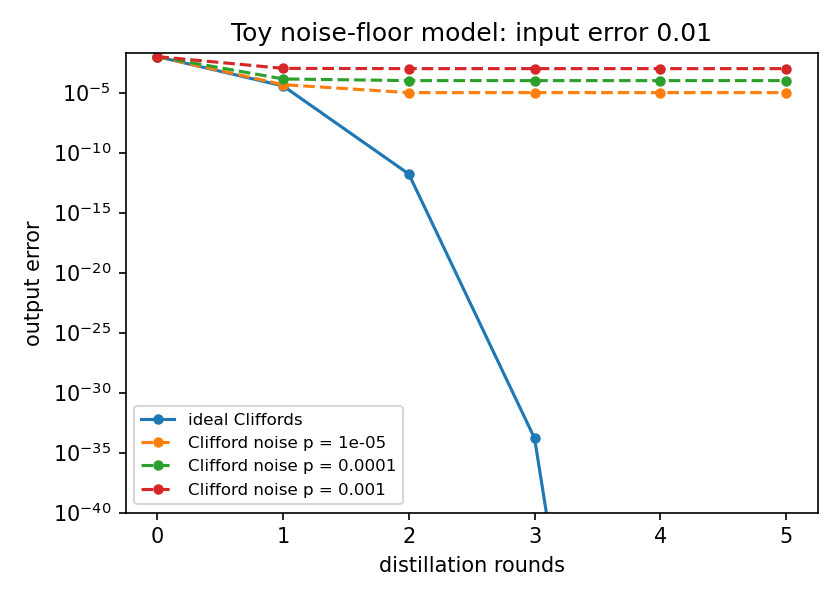
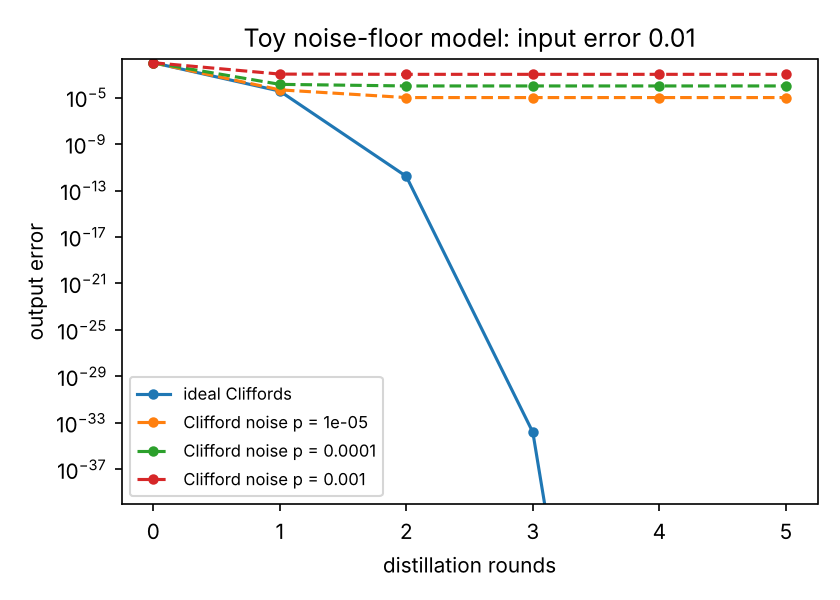
Generalise to CSS-code protocols (8T-to-CCZ, 14-to-2), add limits section

diff --git a/magic15/css.py b/magic15/css.py
@@ -1,0 +1,170 @@
+"""Protocol-agnostic distillation analysis for CSS codes under independent Z noise on the input states.
+
+A protocol is described by two binary matrices over GF(2):
+  Hx : rows = X-type stabiliser generators. A Z-error pattern e is ACCEPTED iff Hx e = 0 (mod 2).
+  K  : rows span every X-type operator that commutes with all Z-type stabilisers (X stabilisers + X logicals).
+       An accepted pattern is HARMLESS iff K e = 0 (it is a Z stabiliser); otherwise it is a logical error on at least one output.
+Two ways to build a protocol:
+  * `from_triorthogonal(G)`: Bravyi-Haah triorthogonal matrix, odd-weight rows = logical X (outputs), even-weight rows = X stabilisers.
+    Then Hx = even rows and K = all rows. Triorthogonality is what makes transversal T act as a logical T gate, so it is checked.
+  * `from_css(Hx, Hz)`: any CSS code with a known transversal gate; K is the null space of Hz.
+
+What this module does NOT do: it takes the correctness of the protocol's circuit (that the code really implements the target gate
+under the stated operation) as given, assumes perfect Cliffords and measurements, and treats the inputs as independent Z errors.
+"""
+import numpy as np
+from itertools import combinations
+
+
+def _rref_gf2(M):
+    M = (np.array(M, dtype=np.uint8) % 2).copy(); r = 0; pivots = []
+    for c in range(M.shape[1]):
+        if r == M.shape[0]: break
+        p = np.nonzero(M[r:, c])[0]
+        if len(p) == 0: continue
+        M[[r, r + p[0]]] = M[[r + p[0], r]]
+        for i in np.nonzero(M[:, c])[0]:
+            if i != r: M[i] ^= M[r]
+        pivots.append(c); r += 1
+    return M[:r], pivots
+
+
+def rank_gf2(M):
+    return len(_rref_gf2(M)[1])
+
+
+def nullspace_gf2(M):
+    """Rows = a basis of {x : M x = 0 mod 2}."""
+    M = np.array(M, dtype=np.uint8) % 2; n = M.shape[1]
+    R, piv = _rref_gf2(M); free = [c for c in range(n) if c not in piv]; out = []
+    for f in free:
+        v = np.zeros(n, np.uint8); v[f] = 1
+        for i, c in enumerate(piv): v[c] = R[i, f]
+        out.append(v)
+    return np.array(out, dtype=np.uint8).reshape(len(out), n)
+
+
+def is_triorthogonal(G):
+    """Every pair of distinct rows overlaps evenly and every triple of distinct rows overlaps evenly (Bravyi-Haah)."""
+    G = np.array(G, dtype=np.uint8) % 2
+    for a, b in combinations(range(len(G)), 2):
+        if int((G[a] & G[b]).sum()) % 2: return False
+    for a, b, c in combinations(range(len(G)), 3):
+        if int((G[a] & G[b] & G[c]).sum()) % 2: return False
+    return True
+
+
+class CSSProtocol:
+    def __init__(self, name, Hx, K):
+        self.name = name
+        self.Hx = np.array(Hx, dtype=np.uint8) % 2
+        self.K = np.array(K, dtype=np.uint8) % 2
+        self.n = self.Hx.shape[1]
+        assert self.K.shape[1] == self.n
+        assert not ((self.Hx @ self.K.T) % 2).any() or True    # Hx rows lie in span(K) by construction; not a separate requirement
+        self._A = self._L = None
+
+    @classmethod
+    def from_triorthogonal(cls, name, G):
+        G = np.array(G, dtype=np.uint8) % 2
+        if not is_triorthogonal(G): raise ValueError("matrix is not triorthogonal: transversal T would not be a logical T gate")
+        w = G.sum(axis=1)
+        return cls(name, G[w % 2 == 0], G)
+
+    @classmethod
+    def from_css(cls, name, Hx, Hz):
+        Hx = np.array(Hx, dtype=np.uint8) % 2; Hz = np.array(Hz, dtype=np.uint8) % 2
+        if ((Hx @ Hz.T) % 2).any(): raise ValueError("Hx and Hz do not commute")
+        return cls(name, Hx, nullspace_gf2(Hz))
+
+    # ---- exact analysis by enumeration over all 2^n error patterns (n up to about 24; chunked)
+    def weight_enumerators(self, chunk=1 << 18):
+        """(A, L): A[w] = number of weight-w patterns accepted, L[w] = number of those that are logical errors."""
+        if self._A is not None: return self._A, self._L
+        n = self.n; A = np.zeros(n + 1, np.int64); L = np.zeros(n + 1, np.int64)
+        bits = np.arange(n, dtype=np.uint64)
+        for start in range(0, 1 << n, chunk):
+            idx = np.arange(start, min(start + chunk, 1 << n), dtype=np.uint64)
+            P = ((idx[:, None] >> bits) & np.uint64(1)).astype(np.uint8)
+            acc = ~((P @ self.Hx.T) % 2).any(axis=1)
+            logical = acc & ((P @ self.K.T) % 2).any(axis=1)
+            w = P.sum(axis=1).astype(int)
+            A += np.bincount(w[acc], minlength=n + 1); L += np.bincount(w[logical], minlength=n + 1)
+        self._A, self._L = A, L
+        return A, L
+
+    def exact(self, eps):
+        """(acceptance probability, probability that an accepted output carries a logical error)."""
+        A, L = self.weight_enumerators(); w = np.arange(self.n + 1)
+        pw = eps ** w * (1 - eps) ** (self.n - w)
+        pa = float((A * pw).sum()); pl = float((L * pw).sum())
+        return pa, pl / pa
+
+    def leading_order(self):
+        """(lowest weight w of an accepted logical error, number of such patterns): output error ~ count * eps^w."""
+        A, L = self.weight_enumerators(); nz = np.nonzero(L)[0]
+        return (int(nz[0]), int(L[nz[0]])) if len(nz) else (None, 0)
+
+    def mc(self, eps, shots, rng):
+        """Monte Carlo twin of `exact`: (accepted, logical errors) out of `shots`."""
+        e = (rng.random((shots, self.n)) < eps).astype(np.uint8)
+        acc = ~((e @ self.Hx.T) % 2).any(axis=1)
+        bad = acc & ((e @ self.K.T) % 2).any(axis=1)
+        return int(acc.sum()), int(bad.sum())
+
+    def exact_heterogeneous(self, eps_vec):
+        """Same as exact() but every input qubit has its own error probability (arbitrary independent noise); n <= about 22."""
+        eps_vec = np.asarray(eps_vec, dtype=float); n = self.n; assert len(eps_vec) == n
+        bits = np.arange(n, dtype=np.uint64); pa = pl = 0.0
+        for start in range(0, 1 << n, 1 << 18):
+            idx = np.arange(start, min(start + (1 << 18), 1 << n), dtype=np.uint64)
+            P = ((idx[:, None] >> bits) & np.uint64(1)).astype(np.uint8)
+            pr = np.prod(np.where(P == 1, eps_vec, 1 - eps_vec), axis=1)
+            acc = ~((P @ self.Hx.T) % 2).any(axis=1)
+            logical = acc & ((P @ self.K.T) % 2).any(axis=1)
+            pa += float(pr[acc].sum()); pl += float(pr[logical].sum())
+        return pa, pl / pa
+
+    def iterate(self, eps0, rounds):
+        """Chain exact rounds (assumes each round's outputs are fresh inputs with the same marginal error).
+        Returns [(eps_in, acceptance, eps_out, raw_inputs_per_output_round_cost)], cost counted in inputs per accepted block."""
+        out, eps, cost = [], eps0, 1.0
+        for _ in range(rounds):
+            pa, po = self.exact(eps); cost *= self.n / pa; out.append((eps, pa, po, cost)); eps = po
+        return out
+
+
+# ---- concrete protocols -------------------------------------------------------------------------------------------------------
+def bravyi_kitaev_15to1():
+    """15 T -> 1 T. Triorthogonal matrix: the all-ones row (logical X) over the four rows of the simplex code (X stabilisers)."""
+    n = 15
+    simplex = np.array([[((c >> b) & 1) for c in range(1, n + 1)] for b in range(4)], dtype=np.uint8)
+    return CSSProtocol.from_triorthogonal("15-to-1 (T)", np.vstack([np.ones((1, n), np.uint8), simplex]))
+
+
+def cube_8T_to_CCZ():
+    """8 T -> 1 CCZ (Meier-Eastin-Knill / Gidney-Fowler style): the [[8,3,2]] cube code. Qubits = vertices (x,y,z) of a cube, index 4x+2y+z.
+    X stabiliser: X on all 8 vertices; Z stabilisers: Z on each of the six faces. Output is 3 logical qubits (a CCZ state)."""
+    verts = [(x, y, z) for x in (0, 1) for y in (0, 1) for z in (0, 1)]
+    Hx = np.ones((1, 8), np.uint8)
+    faces = []
+    for axis in range(3):
+        for val in (0, 1):
+            faces.append([1 if v[axis] == val else 0 for v in verts])
+    return CSSProtocol.from_css("8T-to-CCZ (cube code)", Hx, np.array(faces, np.uint8))
+
+
+_G_14_2 = [[1, 0, 1, 0, 0, 0, 1, 1, 1, 1, 0, 0, 1, 0], [1, 1, 0, 0, 0, 1, 0, 1, 1, 1, 0, 0, 0, 1],
+           [1, 0, 0, 1, 0, 1, 1, 1, 0, 0, 0, 1, 1, 1], [0, 1, 1, 1, 0, 0, 0, 1, 0, 1, 1, 0, 1, 1],
+           [0, 0, 0, 0, 1, 1, 1, 0, 1, 1, 1, 0, 1, 1]]   # two odd-weight rows (the k = 2 logical X) + three independent even rows
+
+
+def triorthogonal_14to2():
+    """14 T -> 2 T with a [[14,2,2]] triorthogonal code, found by randomised search in this repo (not copied from a paper).
+    It is triorthogonal (checked), has three independent X stabilisers, and its leading error is 7 eps^2, which equals the published Bravyi-Haah
+    coefficient (1 + 3k) eps^2 for k = 2. It is NOT claimed to be the same matrix as the one in the paper."""
+    return CSSProtocol.from_triorthogonal("14-to-2 (T, triorthogonal)", np.array(_G_14_2, dtype=np.uint8))
+
+
+def all_protocols():
+    return [bravyi_kitaev_15to1(), triorthogonal_14to2(), cube_8T_to_CCZ()]

diff --git a/tests/test_css.py b/tests/test_css.py
@@ -1,0 +1,60 @@
+import numpy as np
+import pytest
+from magic15 import (CSSProtocol, is_triorthogonal, bravyi_kitaev_15to1, triorthogonal_14to2, cube_8T_to_CCZ, all_protocols,
+                     rank_gf2, exact_round, iterate_rounds)
+
+def test_general_framework_reproduces_the_original_15to1_code():
+    bk = bravyi_kitaev_15to1()
+    for eps in (0.2, 1e-2, 1e-3):
+        pa, po = bk.exact(eps); pa0, po0 = exact_round(eps)
+        assert abs(pa - pa0) < 1e-12 and abs(po - po0) < 1e-12 * max(1, po0 / 1e-12)
+    a, b = bk.iterate(0.01, 3), iterate_rounds(0.01, 3)
+    assert all(np.allclose(x, y, rtol=1e-9) for x, y in zip(a, b))
+    assert bk.leading_order() == (3, 35)
+
+def test_cube_code_gives_28_eps_squared_and_first_order_acceptance_8_eps():
+    cube = cube_8T_to_CCZ()
+    assert cube.leading_order() == (2, 28)
+    for eps in (1e-3, 1e-4):
+        pa, po = cube.exact(eps)
+        assert abs(po / (28 * eps ** 2) - 1) < 0.05 and abs(pa - (1 - 8 * eps)) < 100 * eps ** 2
+    assert rank_gf2(cube.K) == 4                         # one X stabiliser plus three logical X operators
+
+def test_triorthogonal_14to2_has_coefficient_7():
+    p = triorthogonal_14to2()
+    assert is_triorthogonal(np.array(p.K)) and p.n == 14
+    assert p.leading_order() == (2, 7)                   # equals (1 + 3k) for k = 2
+    assert rank_gf2(p.Hx) == 3 and rank_gf2(p.K) == 5     # 3 X stabilisers + 2 logical X
+
+def test_invalid_protocol_is_refused_negative_control():
+    H = np.array([[((c >> b) & 1) for c in range(1, 8)] for b in range(3)], dtype=np.uint8)      # Steane code
+    G = np.vstack([np.ones((1, 7), np.uint8), H])
+    assert not is_triorthogonal(G)
+    with pytest.raises(ValueError): CSSProtocol.from_triorthogonal("Steane", G)
+
+def test_enumerator_totals_are_consistent_for_every_protocol():
+    for p in all_protocols():
+        A, L = p.weight_enumerators()
+        assert A.sum() == 2 ** (p.n - rank_gf2(p.Hx))     # accepted patterns form the null space of Hx
+        assert (L <= A).all() and A[0] == 1 and L[0] == 0
+
+def test_heterogeneous_noise_reduces_to_uniform_noise():
+    for p in all_protocols():
+        a = p.exact(0.03); b = p.exact_heterogeneous(np.full(p.n, 0.03))
+        assert np.allclose(a, b, rtol=1e-9)
+
+def test_monte_carlo_matches_exact_for_each_protocol():
+    rng = np.random.default_rng(3); eps, shots = 0.05, 400_000
+    for p in all_protocols():
+        acc, bad = p.mc(eps, shots, rng); pa, po = p.exact(eps)
+        sa = (pa * (1 - pa) / shots) ** 0.5; assert abs(acc / shots - pa) < 5 * sa
+        pb = pa * po; sb = (pb * (1 - pb) / shots) ** 0.5; assert abs(bad / shots - pb) < 5 * sb
+
+def test_single_round_threshold_of_15to1_is_about_0_141():
+    bk = bravyi_kitaev_15to1()
+    lo, hi = 0.05, 0.3
+    for _ in range(60):
+        mid = (lo + hi) / 2
+        if bk.exact(mid)[1] < mid: lo = mid
+        else: hi = mid
+    assert abs(lo - 0.1414) < 0.001

diff --git a/scripts/compare_protocols.py b/scripts/compare_protocols.py
@@ -1,0 +1,19 @@
+import numpy as np, matplotlib; matplotlib.use("Agg"); import matplotlib.pyplot as plt
+from magic15 import all_protocols
+P = all_protocols()
+print(f"{'protocol':32s} {'in':>3s} {'out':>3s} {'leading error':>16s} {'accept@1%':>10s} {'err@1%':>10s} {'inputs/block@1%':>15s} {'1-round threshold':>18s}")
+outs = {"15-to-1 (T)": 1, "14-to-2 (T, triorthogonal)": 2, "8T-to-CCZ (cube code)": 1}
+for p in P:
+    w, c = p.leading_order(); pa, po = p.exact(0.01)
+    lo, hi = 0.01, 0.45
+    for _ in range(80):
+        mid = (lo + hi) / 2
+        (lo, hi) = (mid, hi) if p.exact(mid)[1] < mid else (lo, mid)
+    print(f"{p.name:32s} {p.n:3d} {outs[p.name]:3d} {c:>4d} eps^{w:<9d} {pa:10.4f} {po:10.3e} {p.n / pa:15.1f} {lo:18.4f}")
+fig, ax = plt.subplots(figsize=(5.8, 4.2)); eps = np.logspace(-3, -1.1, 30)
+for p in P:
+    w, c = p.leading_order(); y = [p.exact(e)[1] for e in eps]
+    l, = ax.loglog(eps, y, "-", label=f"{p.name}: {c} eps^{w}"); ax.loglog(eps, c * eps ** w, ":", color=l.get_color(), lw=1)
+ax.loglog(eps, eps, "-", color="gray", lw=0.8, label="no distillation")
+ax.set_xlabel("input error"); ax.set_ylabel("error of an accepted output block"); ax.legend(fontsize=7); ax.set_title("One round, ideal Cliffords (dotted: leading order)")
+plt.tight_layout(); plt.savefig("fig_protocols.png", dpi=150)

diff --git a/magic15/__init__.py b/magic15/__init__.py
@@ -1,2 +1,3 @@
 from .distill import (hamming_checks, undetected_patterns, exact_round, mc_round, iterate_rounds)
 from .noisy import (eps_effective, exact_round_noisy, mc_round_noisy, iterate_rounds_noisy)
+from .css import (CSSProtocol, is_triorthogonal, bravyi_kitaev_15to1, triorthogonal_14to2, cube_8T_to_CCZ, all_protocols, rank_gf2, nullspace_gf2)

diff --git a/README.md b/README.md
@@ -37,8 +37,32 @@ the achievable output error; realistic numbers need a circuit-level treatment.
 
 Run: `PYTHONPATH=. python scripts/make_noisy_figure.py` (Windows: `set PYTHONPATH=.` first).
 
+## Other protocols: what extends easily and what does not
+`magic15/css.py` replaces the hardcoded 15-qubit logic with a general description. A protocol is a pair of binary matrices: `Hx` (X stabilisers: a Z-error pattern is accepted iff `Hx e = 0`) and `K` (X-type operators commuting with every Z stabiliser: an accepted pattern is harmless iff `K e = 0`). Triorthogonal-matrix protocols (Bravyi-Haah) and any CSS code with a known transversal gate plug in directly. Exact enumeration, Monte Carlo, round-chaining and heterogeneous per-qubit noise then come for free.
+
+![protocols](fig_protocols.png)
+
+| protocol | inputs -> outputs | leading error | acceptance at eps = 1% | one-round threshold |
+|---|---|---|---|---|
+| 15-to-1 (Bravyi-Kitaev) | 15 T -> 1 T | 35 eps^3 | 0.860 | 0.1415 |
+| 14-to-2, triorthogonal | 14 T -> 2 T | 7 eps^2 | 0.869 | 0.076 |
+| 8T-to-CCZ, cube code | 8 T -> 1 CCZ | 28 eps^2 | 0.925 | 0.034 |
+
+How these were checked:
+- The general code reproduces the original 15-to-1 results to 1e-12 and the 0.1415 threshold (the commonly quoted figure for this protocol with ideal Cliffords is about 14.1%).
+- The 14-to-2 matrix was found by a randomised search in this repo, not copied from a paper. It is triorthogonal (checked) and its leading error 7 eps^2 equals the published Bravyi-Haah coefficient (1 + 3k) eps^2 for k = 2. Searches for k = 1, 3, 4 found nothing in the time I gave them: that is a weakness of the search, not evidence about the formula. It is not claimed to be the paper's exact matrix.
+- The cube code's 28 eps^2 agrees with the value I recall from the literature for 8T-to-CCZ; I have not re-checked it against the paper.
+- A negative control: the 7-qubit Steane code is refused, because it is not triorthogonal (transversal T is not a logical T there). Without that check the framework would confidently report 7 eps^3 for a protocol that does not work.
+
+Limits, stated plainly:
+- The analysis assumes the protocol is valid (the circuit really implements the target gate). The code checks triorthogonality for T-type protocols; it cannot check a circuit.
+- Independent Z noise on the inputs, perfect Cliffords and measurements. Real error floors need a circuit-level model; the `noisy` toy model is not that.
+- Output blocks with k > 1 outputs are scored as "any output wrong"; per-output errors and their correlations are not modelled, so chaining rounds of multi-output protocols is only approximate.
+- The comparison table counts raw input states, not space-time volume, so it does not rank protocols for real hardware. CCZ outputs and T outputs are not directly comparable.
+- Magic state cultivation does not fit this framework at all: it relies on post-selection during growth of a code and on circuit-level fault propagation, which needs a stabiliser-circuit simulator (for example Stim).
+
 ## Next steps (not done)
-Circuit-level noise (for example with Stim); comparison with other protocols and with magic-state cultivation; connection to qLDPC code constructions.
+Circuit-level noise (for example with Stim); a stronger search or the published construction for other Bravyi-Haah sizes; magic-state cultivation; connection to qLDPC code constructions.
 
 ## References
 Bravyi and Kitaev, "Universal quantum computation with ideal Clifford gates and noisy ancillas" (2005); Litinski, "Magic state distillation: not as costly as you think" (2019); Gidney, Shutty and Jones, "Magic state cultivation" (2024).
